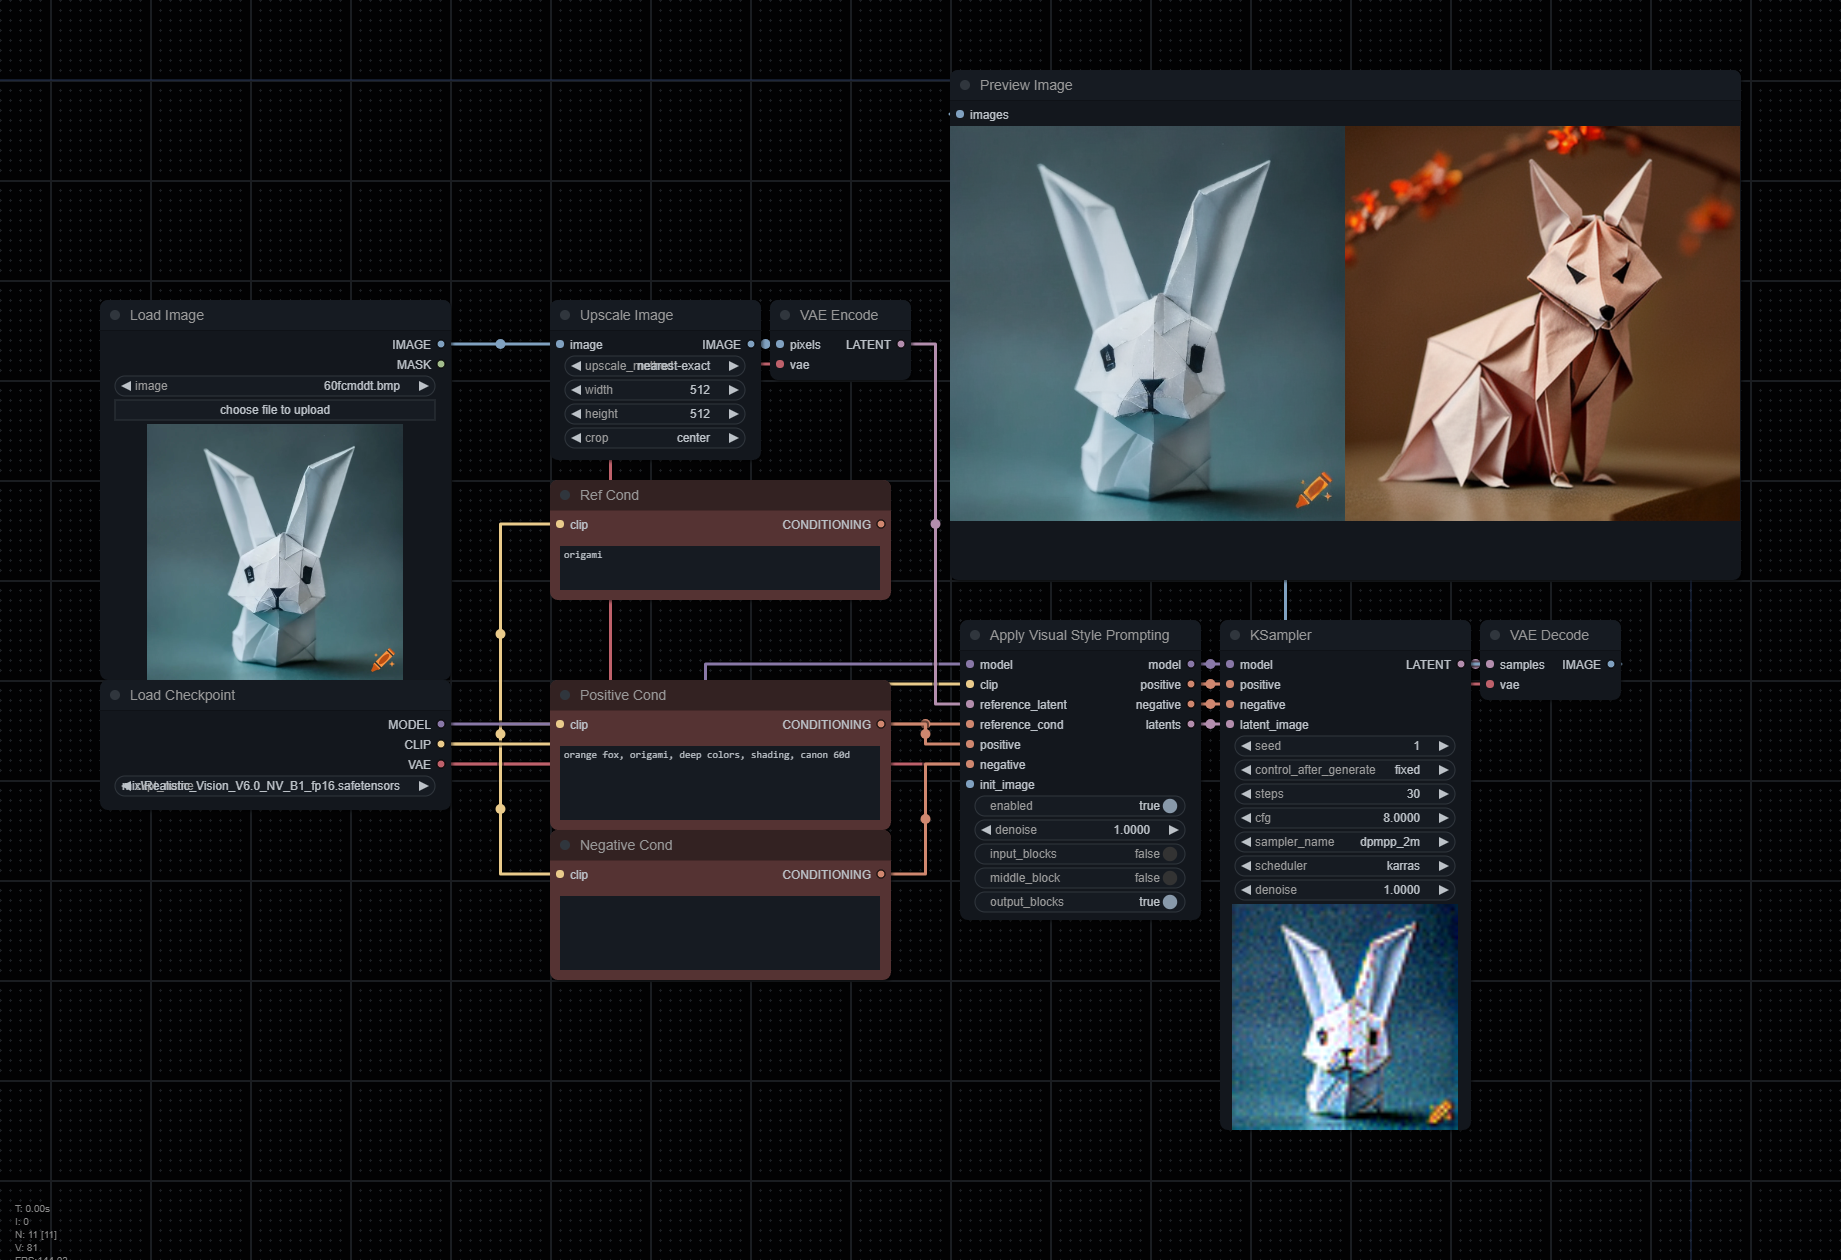
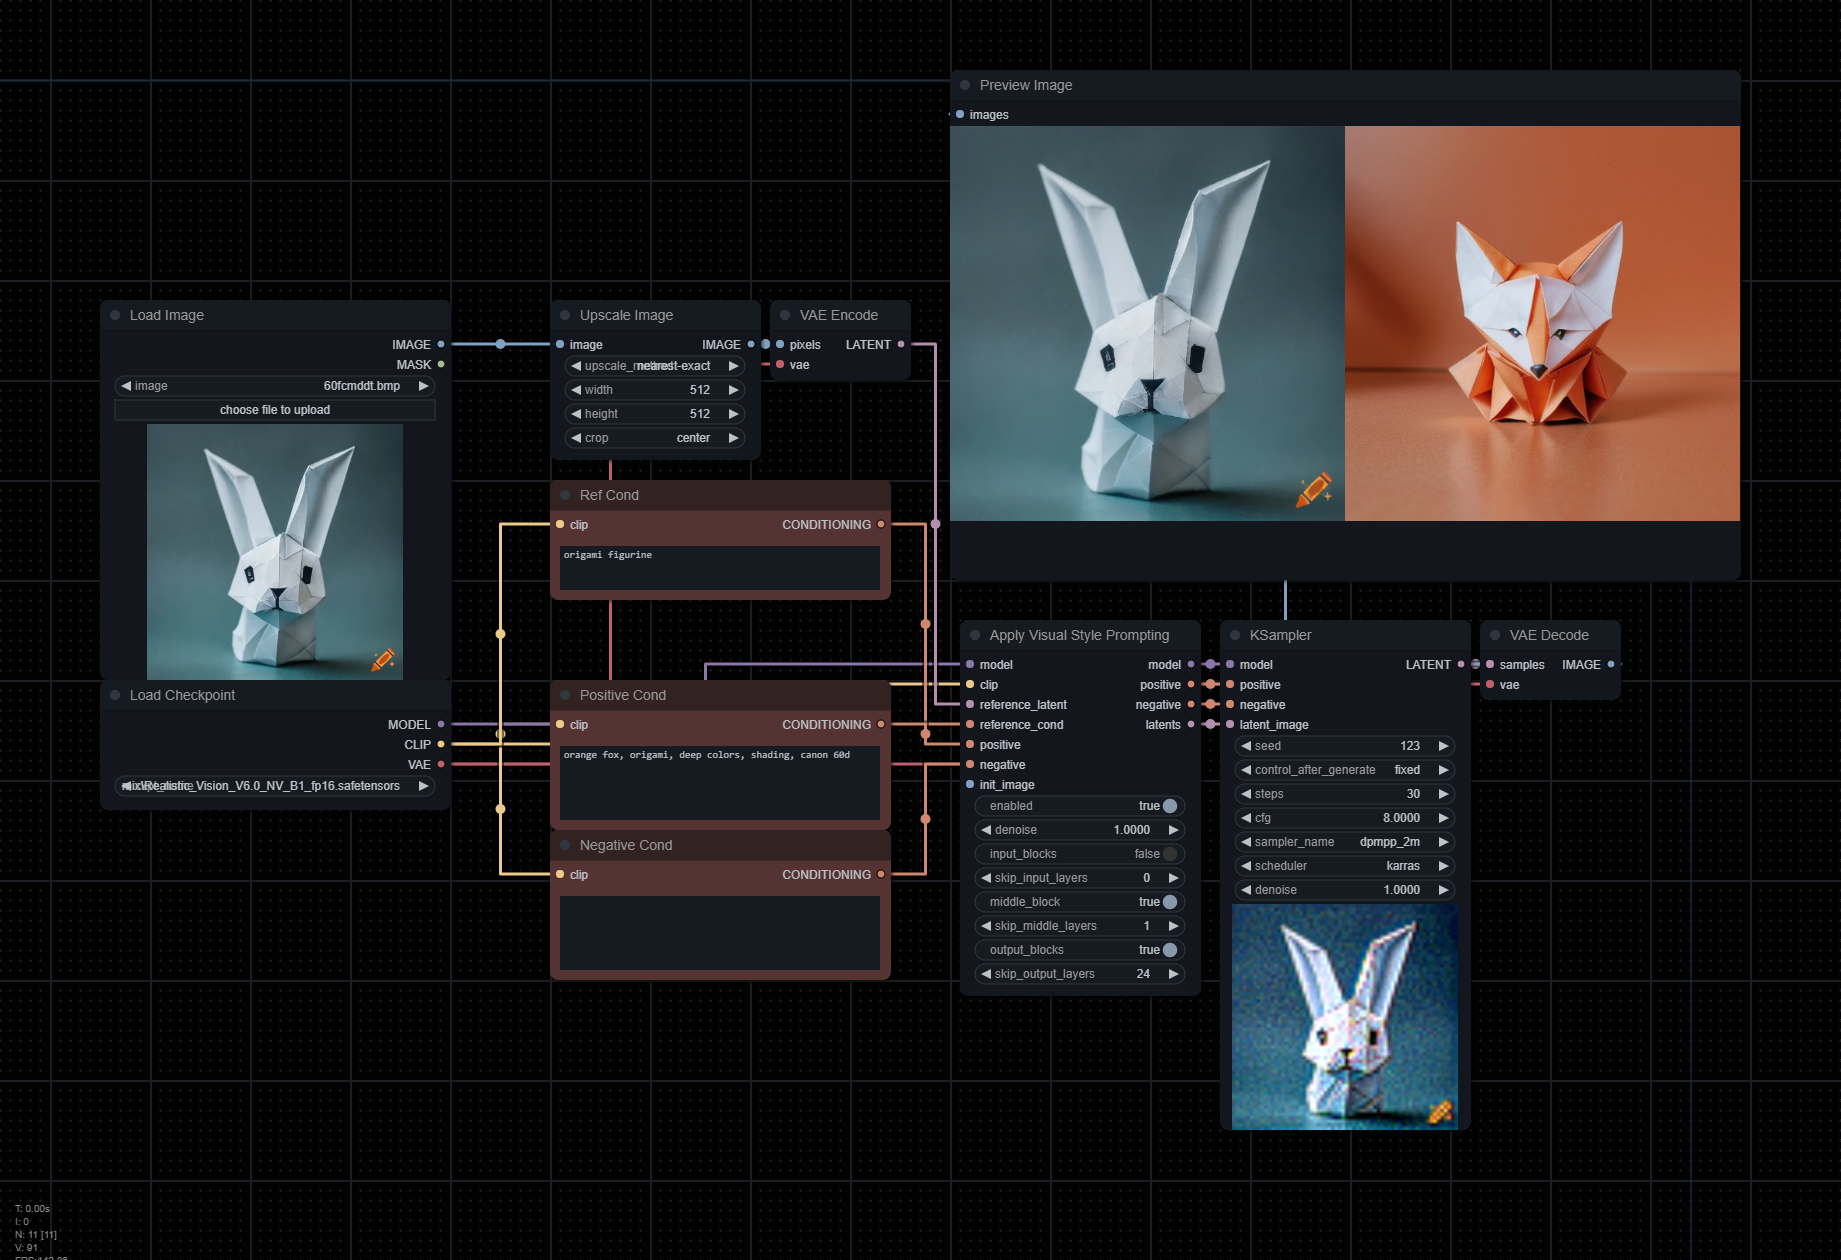
Update README and example workflow

Changed region(s): [[0.7121, 0.0929, 0.9598, 0.4333], [0.4954, 0.681, 0.6502, 0.8048]]

diff --git a/README.md b/README.md
@@ -29,11 +29,15 @@ This has currently only been tested with 1.5 based models.
 - `skip_output_layers`: Number of layers in the output block that will **not** have swapping self-attention applied to them.
 
 > [!TIP]
-> In order to get the best results (matching legacy functionality), you must use the same prompt for `positive` and `reference_cond`.
+> In order to get the best results, you must engineer both `positive` and `reference_cond` prompts correctly. Focus on the details you want to derive from the image reference, and the details you wish to see in the output.
 >
-> The example workflow uses the following for both conds:
+> The example workflow uses the following for the `positive` cond:
 >
 > `orange fox, origami, deep colors, shading, canon 60d`.
+>
+> And for the `reference_cond`:
+>
+> `origami figurine`
 
 ## Notes
 
